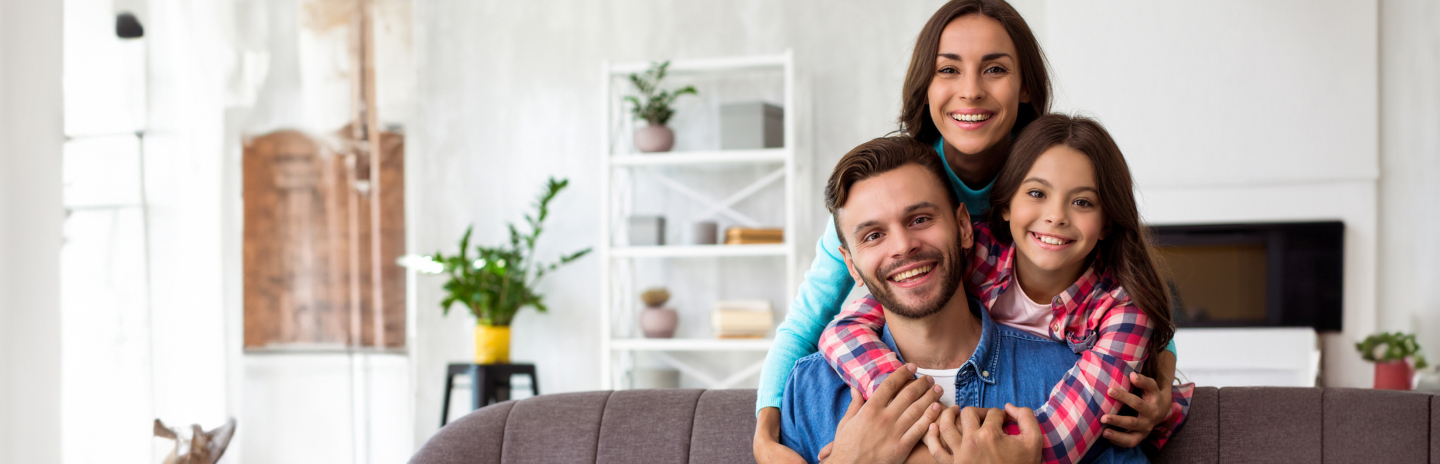
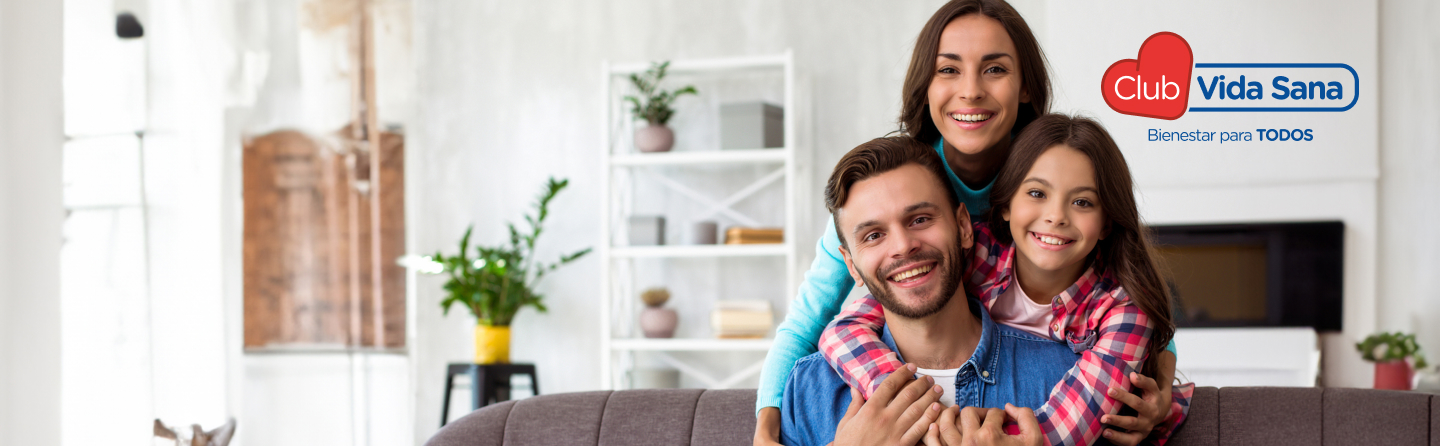
cambios ley2300

diff --git a/src/opt/site/views/ley2300.js b/src/opt/site/views/ley2300.js
@@ -42,7 +42,7 @@ ${HTML.header}
 .vida-title {
     color: #1C58B7;
     font-weight: 900;
-    font-size: 1.7em;
+    font-size: 1.4em;
     text-align: center;
     font-family: 'Poppins', sans-serif;
 }
@@ -53,7 +53,7 @@ ${HTML.header}
 
 .vida-grid {
     display: grid;
-    grid-template-columns: repeat(auto-fill, minmax(200px, 1fr));
+    grid-template-columns: 1fr 1fr 1fr 1fr;
     gap: 20px;
 }
 
@@ -248,7 +248,26 @@ ${HTML.header}
     box-shadow: 0 0 20px 0 rgba(0,0,0,0.15);
 }
 
+.conoce {
+    text-align: center;
+    transform: translateX(51px);
+    width: 338px;
+    display: inline-block;
+    padding-bottom:10px;
+}
+
+#logovida {
+    display: none;
+}
+
 @media only screen and (max-width: 800px) {
+
+    .conoce {
+        display: block;
+        transform: translateX(0px);
+        font-size:0.9em;
+        width: 100%;
+    }
 
     .rowbreak {
         display:block;
@@ -282,7 +301,7 @@ ${HTML.header}
     }
 
     .vida-title {
-        padding: 0 20px;
+
         font-size: 1.2em;
     }
 
@@ -293,17 +312,22 @@ ${HTML.header}
     }
 
     .banner-title {
-        font-size: 1.2em;
+        font-size: 1.1em;
         font-weight: 900;
         padding-bottom: 10px;
     }
 
     .banner-abs-text {
         width:70%;
+        padding: 30px;
     }
 
     .banner-text {
         font-size: 0.7em;
+    }
+
+    #logovida {
+        display: block;
     }
 
 }
@@ -331,7 +355,8 @@ ${HTML.header}
 		<div class="banner-abs-text">
 			<div>
 				<div class="banner-title">¡Sigamos en contacto! </div>
-				<div class="banner-text">Actualiza tu número celular y datos para recibir todos nuestros beneficios. <b>¡No te pierdas nada!</b></div>
+				<div class="banner-text">Actualiza tus datos personales para que sigas recibiendo todos nuestros beneficios. <b>¡No te pierdas nada!</b></div>
+                <img id="logovida" src="assets/logvida.svg" alt="" style="width: 95px;margin: 20px;">
 			</div>
 		</div>
 		<div id="banner-img"><img src="assets/banner.jpg" alt="" style="width: 100%;"></div>
@@ -341,7 +366,7 @@ ${HTML.header}
         
         <div class="form2-cont" style="transform: translateY(-40px);">
 
-            <div class="vida-title" style="text-align: left;">Nos gustaría conocer tu opinión</div>
+            <div class="vida-title" style="text-align: left;">Queremos conocer tu opinión</div>
             <div class="texto-pequeno">De acuerdo con la Ley 2300 de 2023, Farmacia Torres lo invita a escoger los canales por los que prefiere ser contactado para fines comerciales y/o publicitarios. Así seguirá disfrutando de la acumulación de puntos y ofertas todos los días.</div>
 
             <div class="form2" style="margin: 20px 0;">
@@ -384,6 +409,10 @@ ${HTML.header}
     
                 <div>
                     <div class="label" style="padding-left: 0; margin-bottom: 10px;">¿Por cuál medio te gustaría que te contactáramos?</div>
+                    <div class="row-center">
+                        <input id="vs-todas"  type="checkbox" /><label for="vs-todas">Seleccionar Todas</label>
+                    </div>
+                        <br>
                     <div class="col2">
                         <div class="row-center">
                             <input id="vs-texto"  type="checkbox" /><label for="vs-texto">SMS</label>
@@ -414,7 +443,7 @@ ${HTML.header}
 		
 		<div class="max-width">
 		
-			<div class="vida-title">Continúa obteniendo los siguientes beneficios:</div>
+			<div class="vida-title">Continúa obteniendo los siguientes beneficios por ser miembro del Club Vida Sana:</div>
             <br>
 			<div class="vida-grid">
 				<div class="info-item">
@@ -430,28 +459,26 @@ ${HTML.header}
 					<div class="text">Redime tus puntos y ahorra hasta 50% en tus compras</div>
 				</div>
 				<div class="info-item">
-					<img src="assets/iconv4.svg" alt="" />
-					<div class="text">Aprovecha descuentos en nuestra red de aliados</div>
-				</div>
-				<div class="info-item">
 					<img src="assets/iconv5.svg" alt="" />
 					<div class="text">Consejos de salud para ti y tu familia</div>
 				</div>
 			</div>
 
 		</div>
+        <p>&nbsp;</p>
 
 	</section>
 
         
 	<section class="max-width" style="padding: 40px; padding-bottom: 90px">
 		<div class="vida-title">Redime tus puntos en Farmacia Torres</div>
-		<p class="tx-c" style="max-width: 800px; margin: 20px auto;">Aprovecha las mejores ofertas redimiento tus puntos en nuestras droguerías o nuestras plataformas virtuales, conoce nuestra tabla de puntos:</p>
+		<p class="tx-c" style="max-width: 800px; margin: 20px auto;">Aprovecha las mejores ofertas redimiendo tus puntos en nuestras droguerías o nuestras plataformas virtuales.</p>
 		<p>&nbsp;</p>
 
 
 		<div class="rowbreak tx-r">
 			<div style="flex:1;">
+                <h2 class="conoce">Conoce nuestra tabla de puntos</h2>
 				<div id="puntos">
 					<table class="table-puntos">
 						<thead>

diff --git a/src/opt/site/public/js/ley2300.js b/src/opt/site/public/js/ley2300.js
@@ -42,7 +42,6 @@ async function enviarVida(elem) {
 }
 
 $(window).resize(e => {
-    console.log("aja", $(window).width())
     if($(window).width() < 800) {
         $img.attr("src", "assets/bannermobile.jpg")
     } else {
@@ -50,3 +49,12 @@ $(window).resize(e => {
     }
 })
 $(window).trigger("resize");
+
+
+$("#vs-todas").on("change", e => {
+    let $elem = $(e.currentTarget),
+        checked = $elem.is(":checked")
+    ;
+    $("#vs-texto, #vs-correo, #vs-llamada, #vs-whatsapp").attr("checked", checked)
+
+})
